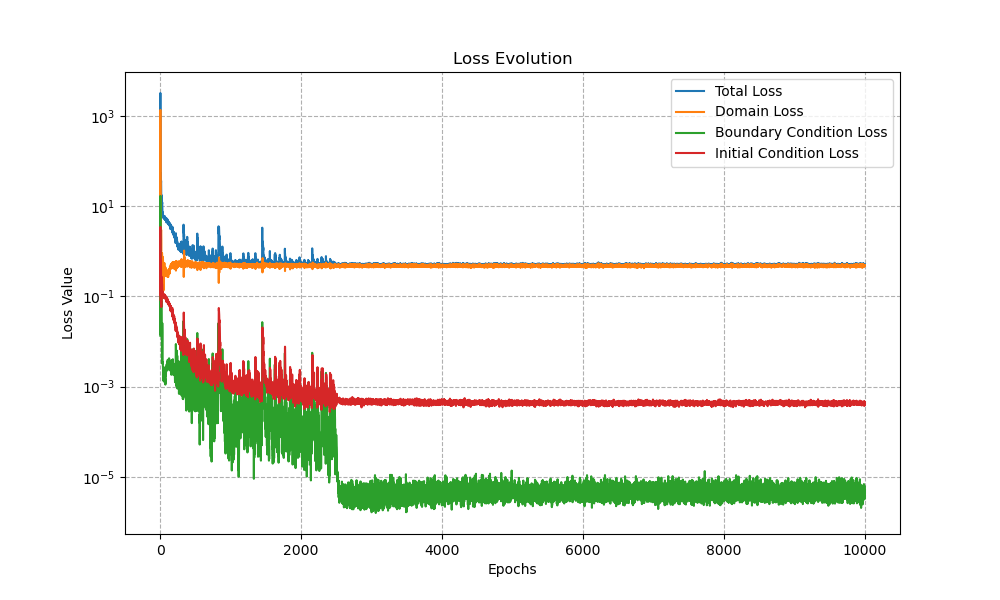
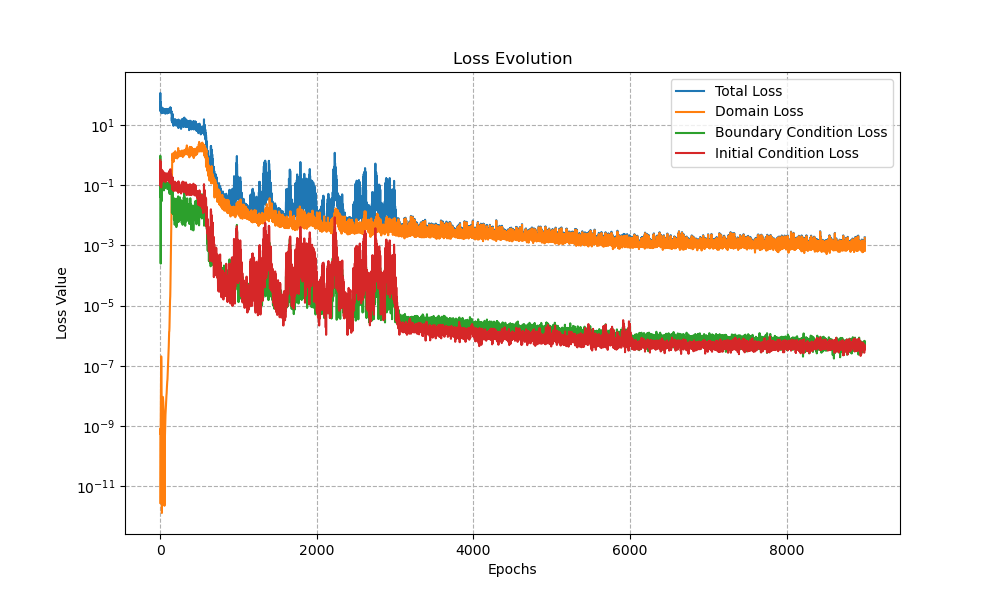
Towards CUDA

diff --git a/Learning-Torch-2.py b/Learning-Torch-2.py
@@ -36,9 +36,9 @@ else:
 pinn = PINN(2, [64, 128, 128, 128, 64], 1, act=nn.Sigmoid(), device=device)
 print(pinn)
 
-learning_rate = 3e-2
+learning_rate = 1e-2
 optimizer = optim.Adam(pinn.parameters(), lr=learning_rate)
-scheduler = StepLR(optimizer, step_size=3000, gamma=1e-3)
+scheduler = StepLR(optimizer, step_size=3000, gamma=1e-1)
 
 epochs = int(9e3)
 convergence_data = torch.empty((epochs), device=device)
@@ -101,10 +101,11 @@ for epoch in range(int(epochs)):
     
     loss = loss_dom + boundary_condition_weight * loss_bc + initial_condition_weight * loss_ic
     
-    loss_list.append(loss.detach().numpy())
-    loss_domain_list.append(loss_dom.detach().numpy())
-    loss_bc_list.append(loss_bc.detach().numpy())
-    loss_ic_list.append(loss_ic.detach().numpy())
+    #loss_list.append(loss.detach().numpy())
+    loss_list.append(loss.detach().cpu().numpy())
+    loss_domain_list.append(loss_dom.detach().cpu().numpy())
+    loss_bc_list.append(loss_bc.detach().cpu().numpy())
+    loss_ic_list.append(loss_ic.detach().cpu().numpy()) 
     
     loss.backward()
     optimizer.step()
@@ -127,16 +128,16 @@ plt.ylabel('Loss Value')
 plt.grid(True, which="both", ls="--")
 plt.savefig('individual_losses_plot.png')
 
-x = torch.linspace(0, 1, 126).view(-1, 1)
+x = torch.linspace(0, 1, 126).view(-1, 1).to(device)
 
 for idx, t_i in enumerate(np.linspace(0, 2, 11)):
     t = t_i * torch.ones_like(x)
-    nn_sol = pinn(x, t).detach().numpy()
+    nn_sol = pinn(x, t).detach().cpu().numpy()
     
     plt.figure()
-    plt.plot(x, nn_sol, label='nn')
+    plt.plot(x.cpu().numpy(), nn_sol, label='nn')
     exact_sol = torch.sin(torch.pi * x) * torch.exp(-torch.pi**2 * t)
-    plt.plot(x, exact_sol, label='exact sol')
+    plt.plot(x.cpu().numpy(), exact_sol.cpu().numpy(), label='exact sol')
     plt.title(r'$t_i$:' + str(t_i))
     plt.legend()
 
